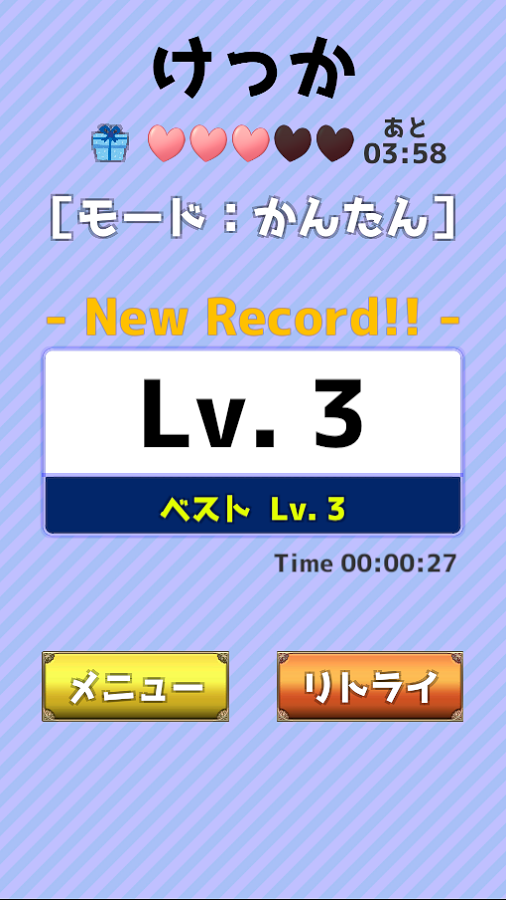
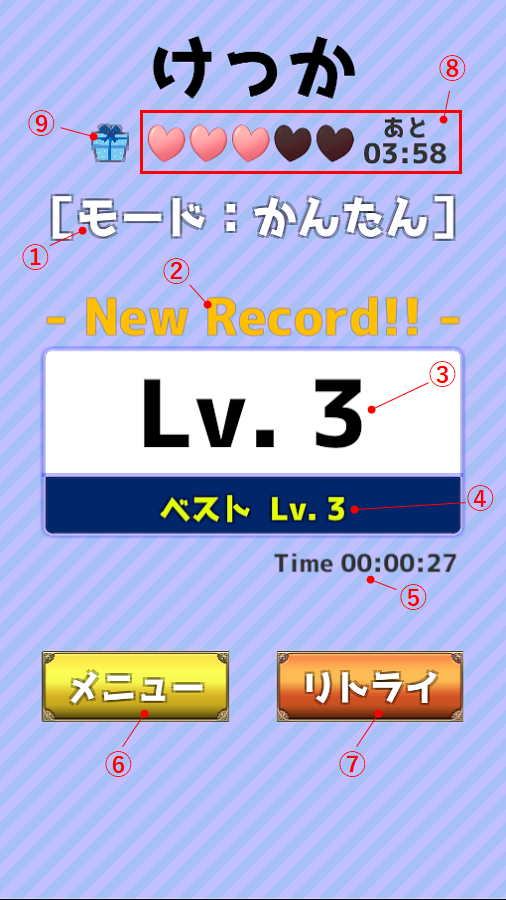
FlashRPC用のサポートページ更新

diff --git a/docs/FlashRPC/sprt.md b/docs/FlashRPC/sprt.md
@@ -46,23 +46,23 @@
 
 ### リザルト画面
 
-- モード：選択した難易度が表示されます。
+1. モード：選択した難易度が表示されます。
 
-- New Record：自己ベストを更新すると表示されます。
+2. New Record：自己ベストを更新すると表示されます。
 
-- スコア：今回の到達レベルを表示します。
+3. スコア：今回の到達レベルを表示します。
 
-- 自己ベスト：遊んだ難易度で今までの最高レベルが表示されます。
+4. 自己ベスト：遊んだ難易度で今までの最高レベルが表示されます。
 
-- タイム：ゲームオーバーまでに掛かった時間を表示します。
+5. タイム：ゲームオーバーまでに掛かった時間を表示します。
 
-- メニュー：メニュー画面に移動します。
+6. メニュー：メニュー画面に移動します。
 
-- リトライ：同じ難易度でゲーム画面に移動します。
+7. リトライ：同じ難易度でゲーム画面に移動します。
 
-- ハート：最大5つで、ゲームを遊ぶ毎に１つ消費します。10分毎に自動で1つ回復します。
+8. ハート：最大5つで、ゲームを遊ぶ毎に１つ消費します。10分毎に自動で1つ回復します。
 
-- ハート回復：広告を観ることで、ハートが全回復します。
+9. ハート回復：広告を観ることで、ハートが全回復します。
 
 ## お問い合わせ窓口
 
